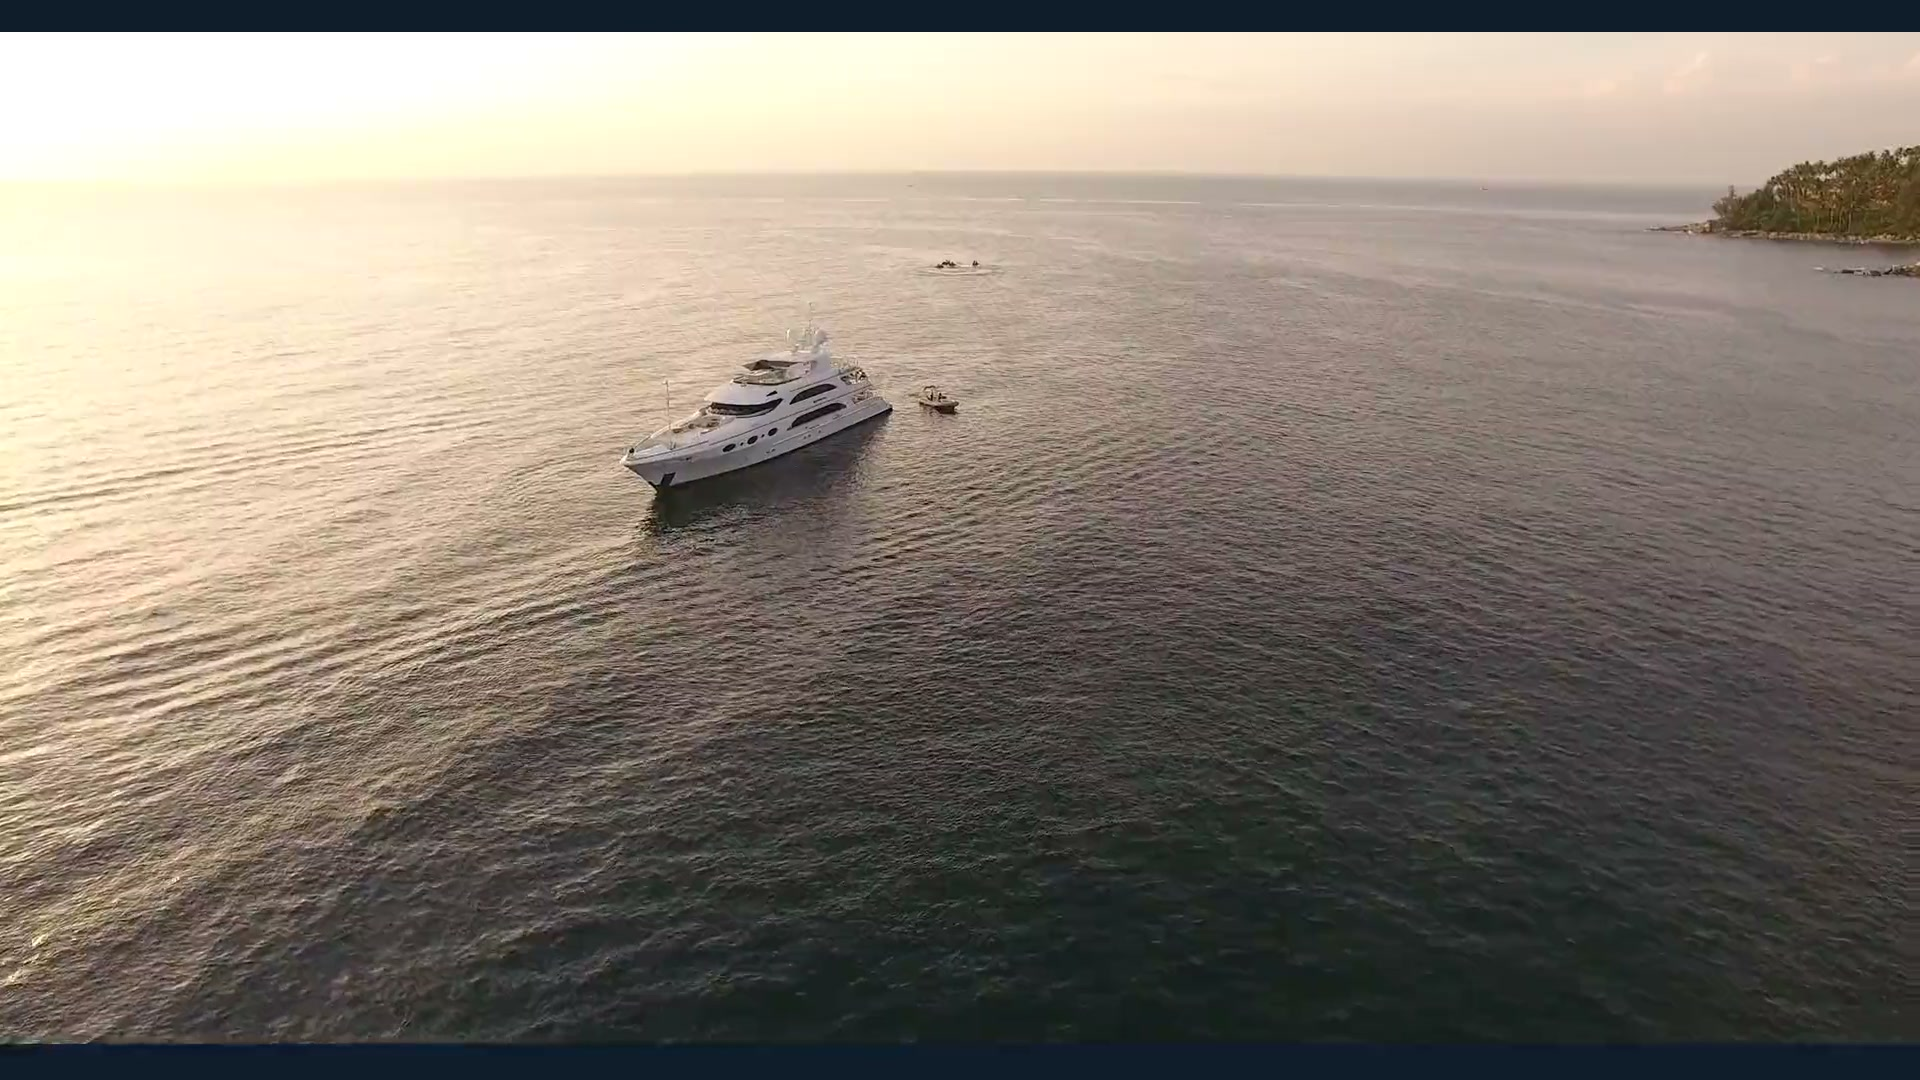
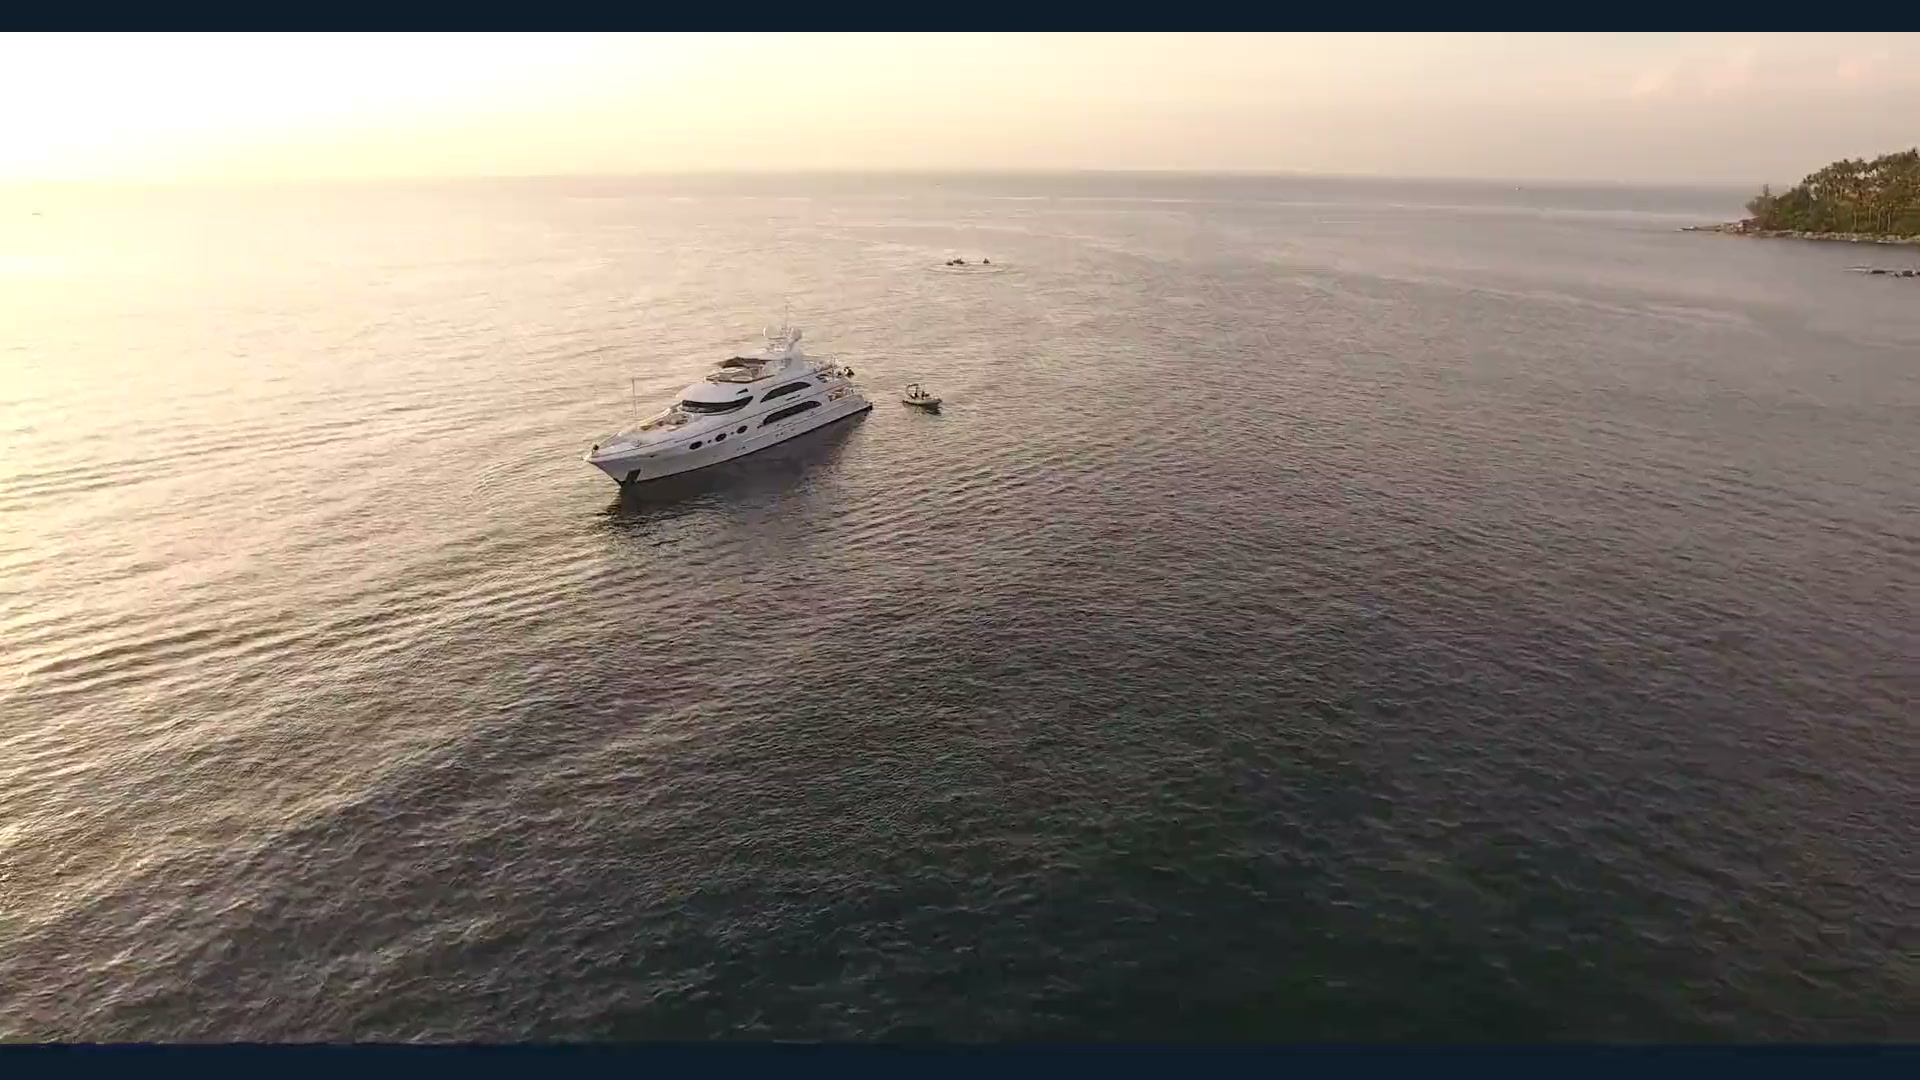
feat(hero): re-cut 6-clip loop — trim landscape beats + reorder UW
Boss tightening pass on the hero loop:
  • The opening above-water clip and the two other landscape
    above-water clips trim to 4 s each — quick transition beats
    instead of full 8–19 s segments that overstayed.
  • The 3 underwater clips reshuffle: the first one (8824586
    yacht-hull splashing) moves to slot 6 (final underwater
    moment), and the other two shift forward — so the visitor
    sees a calm snorkeler / freediver underwater BEFORE the
    closing splash beat.

New order (63.7 s total, was 89.1 s):
  1. 8303143  — golden-hour motor yacht aerial      4 s    ↓ from 8.4 s
  2. 854344   — snorkeler on shallow sandy bottom   6.9 s  (full)
  3. 14545703 — superyacht in rocky-shore anchorage 4 s    ↓ from 19 s
  4. 4612166  — freediver gliding over seagrass     31.1 s (full)
  5. 12532891 — motorboat carving a wake at sunset  4 s    ↓ from 10 s
  6. 8824586  — yacht hull splashing through waves  13.7 s (full)

Trim points (chosen for "best 4 seconds" per source):
  • 8303143  — start at 1 s, take 4 s (skip first-frame artefact)
  • 14545703 — start at 8 s, take 4 s (mid-clip — yacht is fully
                                       in frame, brand-clean shot)
  • 12532891 — start at 0 s, take 4 s (wake is freshest at the
                                       opening)

Speed normalisation kept — every input still passes through
fps=30, scale=1920:1080 in the concat filter so the playback
feels uniform across the six cuts.
[…]

diff --git a/app/components/VideoSection.jsx b/app/components/VideoSection.jsx
@@ -37,22 +37,26 @@
 // bar (which Chapter 01 also makes non-dismissible).
 //
 // Video swap: 6-clip Boss-curated cinematic loop — interleaves the
-// 3 above-water yacht clips from the original hero-trio with 3
-// underwater clips so the visitor never sees two similar shots
-// back-to-back. Boss spec: "δε θέλω να είναι back to back, υποβρύχιο
-// και επιφάνεια σε εναλλαγή". Order:
-//   1. 8303143  — golden-hour motor yacht aerial (8.4 s)
-//   2. 8824586  — yacht hull splashing through waves (13.7 s)
-//   3. 14545703 — superyacht in rocky-shore anchorage (19 s)
-//   4. 854344   — snorkeler on shallow sandy bottom (6.9 s)
-//   5. 12532891 — motorboat carving a wake at sunset (10 s)
-//   6. 4612166  — freediver gliding over seagrass meadow (31.1 s)
-// Total 89.1 s loop. All sources normalised to 1920×1080 30 fps via
-// ffmpeg concat filter so playback speed feels identical across
-// every clip (Boss directive: "η ταχύτητα και των έξι να είναι ίδια
-// — μην είναι το ένα πιο γρήγορο και το άλλο πιο αργό"). Encoded:
-//   • WebM VP9  1000 kbps 2-pass → 11 MB (Chrome / Firefox / Edge)
-//   • MP4  H.264 1500 kbps 2-pass → 16 MB (Safari fallback)
+// 3 above-water clips with 3 underwater clips so the visitor never
+// sees two similar shots back-to-back. Reorder + per-clip trim per
+// Boss directive ("το πρώτο 4 δευτερόλεπτα · τα τοπία και αυτά 4
+// δευτερόλεπτα το καθένα · το πρώτο underwater να πάει στη θέση 6
+// και τα άλλα να μετατοπιστούν προς την αρχή"):
+//
+//   1. 8303143  — golden-hour motor yacht aerial      (4 s, trimmed)
+//   2. 854344   — snorkeler on shallow sandy bottom   (6.9 s, full)
+//   3. 14545703 — superyacht in rocky-shore anchorage (4 s, trimmed)
+//   4. 4612166  — freediver gliding over seagrass     (31.1 s, full)
+//   5. 12532891 — motorboat carving a wake at sunset  (4 s, trimmed)
+//   6. 8824586  — yacht hull splashing through waves  (13.7 s, full)
+//
+// Total 63.7 s loop. The above-water clips are tightened to 4 s each
+// so they read as quick "transition" beats between the longer
+// underwater shots that carry the cinematic weight. All sources
+// normalised to 1920×1080 30 fps via ffmpeg concat filter so playback
+// speed feels identical across every clip. Encoded:
+//   • WebM VP9  1000 kbps 2-pass →  7.6 MB (Chrome / Firefox / Edge)
+//   • MP4  H.264 1500 kbps 2-pass → 12   MB (Safari fallback)
 // preload="auto" so the browser starts buffering immediately.
 
 import React, { useEffect, useRef, useState } from "react";